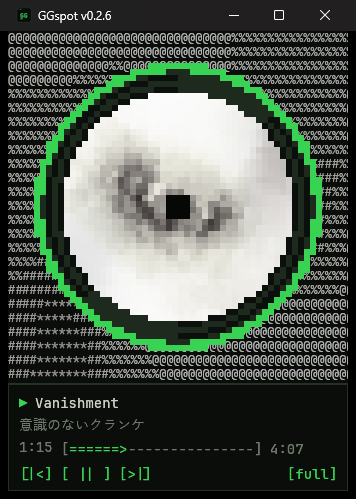
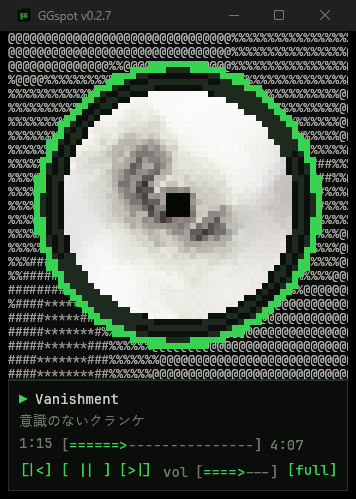
Add a volume bar to mini mode

diff --git a/src/ui.rs b/src/ui.rs
@@ -25,7 +25,7 @@ const QUEUE_VIEW: &str = "queue";
 pub const FULL_SIZE: [f32; 2] = [880.0, 580.0];
 pub const FULL_MIN: [f32; 2] = [520.0, 320.0];
 const MINI_SIZE: [f32; 2] = [340.0, 460.0];
-const MINI_MIN: [f32; 2] = [280.0, 340.0];
+const MINI_MIN: [f32; 2] = [310.0, 340.0];
 const ASCII_FONT: f32 = 12.0;
 const ASCII_LINE: f32 = 14.0;
 
@@ -527,6 +527,11 @@ impl App {
                     let ctx = ui.ctx().clone();
                     self.set_mini(&ctx, false);
                 }
+                // Laid out right to left: whatever room is left, less "vol" and the brackets.
+                let cw = ui.ctx().fonts_mut(|f| f.glyph_width(&FontId::monospace(14.0), '='));
+                let chars = ((ui.available_width() - 33.0) / cw - 2.0).clamp(4.0, 12.0) as usize;
+                self.volume_bar(ui, chars);
+                ui.label(RichText::new("vol").color(DIM));
             });
         });
     }
@@ -821,6 +826,13 @@ impl App {
         }
     }
 
+    fn volume_bar(&mut self, ui: &mut egui::Ui, chars: usize) {
+        if let Some(v) = ascii_bar(ui, "volume", self.volume, chars) {
+            self.volume = v;
+            self.send(Cmd::Volume((v * 65535.0) as u16));
+        }
+    }
+
     fn transport(&self, ui: &mut egui::Ui) {
         if text_button(ui, "[|<]") {
             self.send(Cmd::Prev);
@@ -911,10 +923,7 @@ impl App {
             self.progress_row(ui, 260.0);
             ui.add_space(16.0);
             ui.label(RichText::new("vol").color(DIM));
-            if let Some(v) = ascii_bar(ui, "volume", self.volume, 10) {
-                self.volume = v;
-                self.send(Cmd::Volume((v * 65535.0) as u16));
-            }
+            self.volume_bar(ui, 10);
         });
         ui.add_space(2.0);
         if let Some(t) = open_artist {
